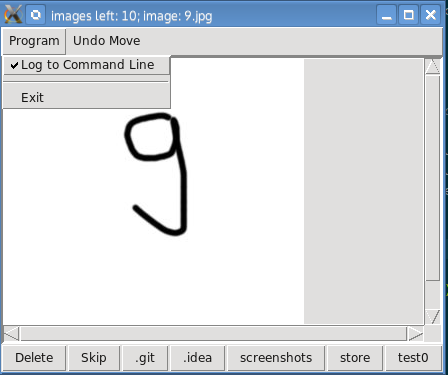
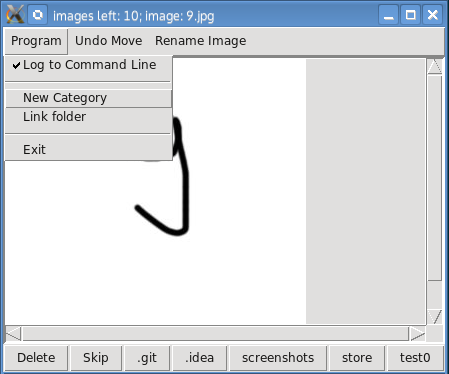
Updates README.md Adds new screenshots

Changed region(s): [[0.0, 0.0, 1.0, 1.0], [0.3438, 0.0882, 0.5625, 0.1471], [0.8125, 0.0294, 0.8438, 0.0588]]

diff --git a/README.md b/README.md
@@ -14,4 +14,19 @@ Starting from the command line: ``./imageMover [options] [path]``
 
 The GUI has an option to toggle logging to the command line (which only makes sense, when you started the program from the command line of course).
 
-![Screenshot](screenshots/screenshot01.png)
+* Main Window
+
+![Main Window](screenshots/screenshot01.png)
+
+* Rename Window
+
+![Rename Window](screenshots/screenshot02.png)
+
+* New Category Window
+
+![Create New Category Window](screenshots/screenshot03.png)
+
+* Link Window
+
+![Link Window](screenshots/screenshot04.png)
+
